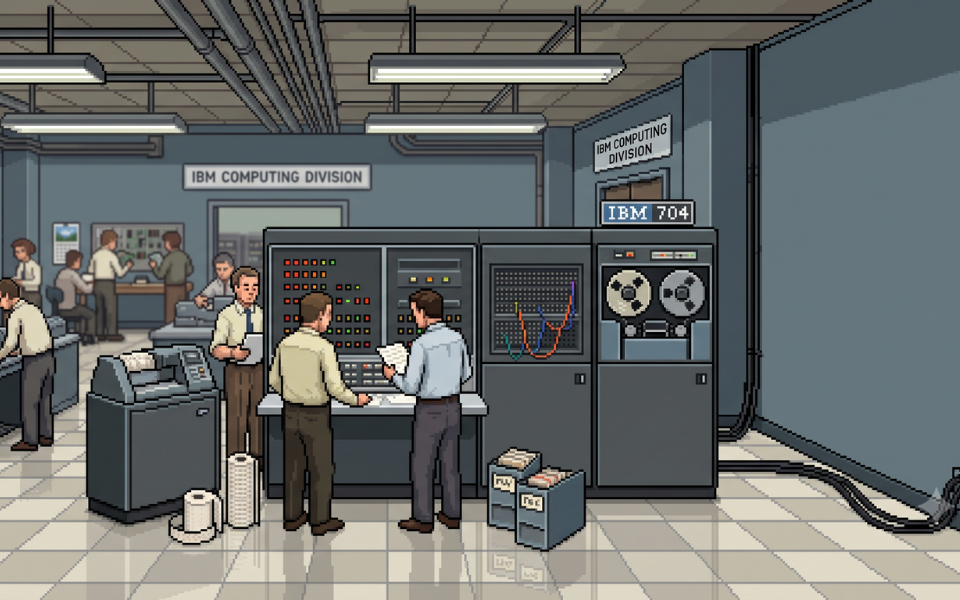
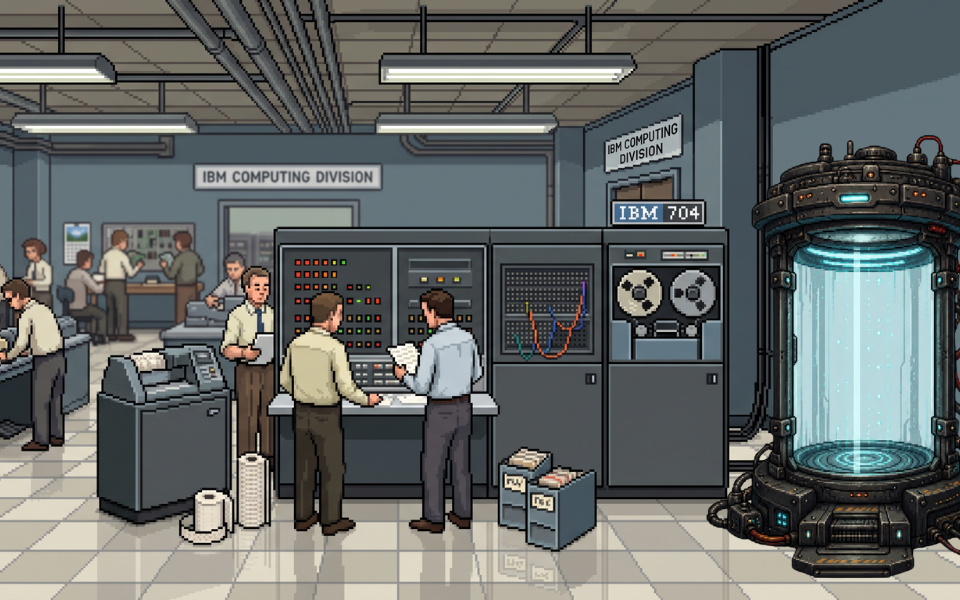
atualização fase 3

diff --git a/Pygame/Fase_7/fase_7.py b/Pygame/Fase_7/fase_7.py
@@ -448,7 +448,7 @@ class Jogo:
 
         # --- Sprites de cena ---
         self.img_computador = carregar_imagem(
-            ASSETS["computador"], (170, 200), (60, 60, 68), "MAINFRAME\n(fechado)",
+            ASSETS["computador"], (128, 135), (60, 60, 68), "MAINFRAME\n(fechado)",
         )
         self.img_valvula = carregar_imagem(
             ASSETS["valvula"], (70, 100), LARANJA_VALVULA, "VÁLVULA",
@@ -506,9 +506,9 @@ class Jogo:
 
         # --- NPC (Tommy Flowers, engenheiro do Colossus) ---
         self.img_npc = carregar_imagem(
-            ASSETS["npc"], (138, 288), (110, 90, 130), "NPC",
+            ASSETS["npc"], (168, 288), (110, 90, 130), "NPC",
         )
-        self.rect_npc = self.img_npc.get_rect(midleft=(500, ALTURA - 180))
+        self.rect_npc = self.img_npc.get_rect(midleft=(410, ALTURA - 175))
         self.npc_chat = NPCChatbot(
             rect_npc=self.rect_npc,
             nome_npc="Tommy Flowers",
@@ -542,7 +542,7 @@ class Jogo:
 
         # --- Elementos da CENA 1 ---
         self.limites_sala = pygame.Rect(0, 0, LARGURA, ALTURA)
-        self.rect_computador = self.img_computador.get_rect(midright=(LARGURA - 60, ALTURA - 240))
+        self.rect_computador = self.img_computador.get_rect(midright=(LARGURA - 232, ALTURA - 170))
         self.ponto_interacao_computador = (
             self.rect_computador.left - 40,
             self.rect_computador.bottom - 20,